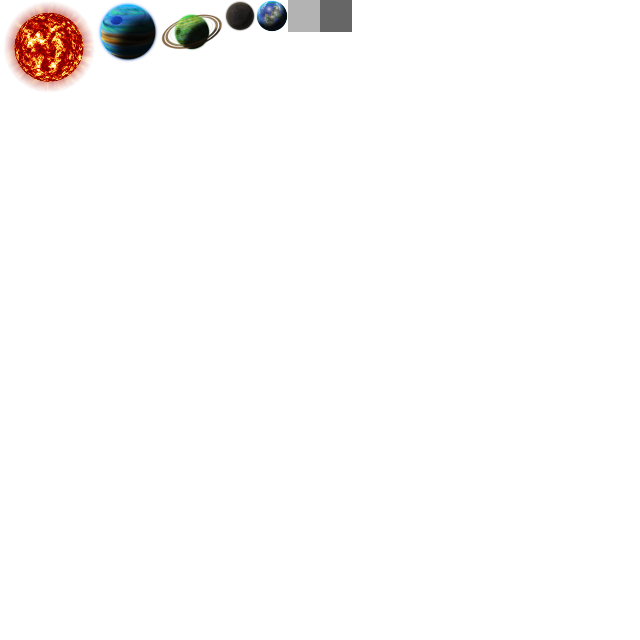
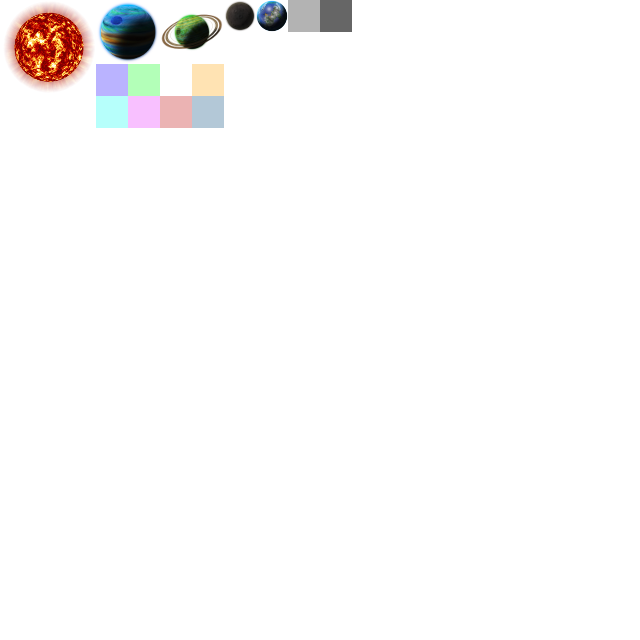
Started doing cultural effects on map.

Changed region(s): [[0.125, 0.0938, 0.375, 0.2188]]

diff --git a/src/org/openRealmOfStars/starMap/CulturePower.java b/src/org/openRealmOfStars/starMap/CulturePower.java
@@ -1,0 +1,78 @@
+package org.openRealmOfStars.starMap;
+
+import org.openRealmOfStars.player.PlayerList;
+
+/**
+ * 
+ * Open Realm of Stars game project
+ * Copyright (C) 2016  Tuomo Untinen
+ *
+ * This program is free software; you can redistribute it and/or
+ * modify it under the terms of the GNU General Public License
+ * as published by the Free Software Foundation; either version 2
+ * of the License, or (at your option) any later version.
+ * 
+ * This program is distributed in the hope that it will be useful,
+ * but WITHOUT ANY WARRANTY; without even the implied warranty of
+ * MERCHANTABILITY or FITNESS FOR A PARTICULAR PURPOSE.  See the
+ * GNU General Public License for more details.
+ * 
+ * You should have received a copy of the GNU General Public License
+ * along with this program; if not, see http://www.gnu.org/licenses/
+ * 
+ * 
+ * Culture power for single sector
+ * 
+ */
+
+public class CulturePower {
+
+  /**
+   * Culture value for each player
+   */
+  private int[] culture;
+  
+  /**
+   * Constructor for culture power
+   */
+  public CulturePower() {
+    culture = new int[PlayerList.MAX_PLAYERS];
+  }
+  
+  /**
+   * Reset culture for sector
+   */
+  public void reset() {
+    for (int i=0;i<PlayerList.MAX_PLAYERS;i++) {
+      culture[i] = 0;
+    }
+  }
+  
+  /**
+   * Add culture for certain player
+   * @param playerIndex PlayerIndex
+   * @param value Culture value
+   */
+  public void addCulture(int playerIndex, int value) {
+    if(playerIndex>0 && playerIndex < PlayerList.MAX_PLAYERS) {
+      culture[playerIndex] = culture[playerIndex]+value;
+    }
+  }
+  
+  /**
+   * Get player index for highest culture
+   * @return Player index or -1 if no culture at all
+   */
+  public int getHighestCulture() {
+    int value = -1;
+    int index = -1;
+    for (int i=0;i<PlayerList.MAX_PLAYERS;i++) {
+      if (culture[i]>value) {
+        index = i;
+        value = culture[i];
+      }
+    }
+    return index;
+  }
+  
+}

diff --git a/src/org/openRealmOfStars/starMap/StarMap.java b/src/org/openRealmOfStars/starMap/StarMap.java
@@ -61,6 +61,11 @@ public class StarMap {
   private SquareInfo tileInfo[][];
   
   /**
+   * Culture level for each sector
+   */
+  private CulturePower culture[][];
+  
+  /**
    * Solar system width
    */
   private final static int SOLARSYSTEMWIDTH = 7;
@@ -122,6 +127,7 @@ public class StarMap {
     tiles = new int[maxX][maxY];
     tileInfo = new SquareInfo[maxX][maxY];
     fleetTiles = new FleetTileInfo[maxX][maxY];
+    culture = new CulturePower[maxX][maxY];
     sunList = new ArrayList<>();
     planetList = new ArrayList<>();
     Tile empty = Tiles.getTileByName(TileNames.EMPTY);
@@ -750,7 +756,21 @@ public class StarMap {
       return null;
     }
   }
-  
+
+  /**
+   * Get culture power
+   * @param x
+   * @param y
+   * @return Culture power or null
+   */
+  public CulturePower getSectorCulture(int x, int y) {
+    if (isValidCoordinate(x, y)) {
+      return culture[x][y];
+    } else {
+      return null;
+    }
+  }
+
   /**
    * Is tile blocked or not
    * @param x X coordinate

diff --git a/src/org/openRealmOfStars/player/SpaceRace.java b/src/org/openRealmOfStars/player/SpaceRace.java
@@ -1,5 +1,6 @@
 package org.openRealmOfStars.player;
 
+import org.openRealmOfStars.mapTiles.TileNames;
 import org.openRealmOfStars.utilities.DiceGenerator;
 
 /**
@@ -262,6 +263,21 @@ public enum SpaceRace {
     case CENTAURS: return 1;
     }
     return 0;
+  }
+
+  /**
+   * Get racial culture tiel
+   * @return Tile name
+   */
+  public String getCultureTile() {
+    switch (this) {
+    case HUMAN: return TileNames.HUMANS;
+    case MECHIONS: return TileNames.MECHIONS;
+    case SPORKS: return TileNames.SPORKS;
+    case GREYANS: return TileNames.GREYANS;
+    case CENTAURS: return TileNames.CENTAURS;
+    }
+    return TileNames.HUMANS;
   }
 
 }

diff --git a/src/org/openRealmOfStars/starMap/planet/Planet.java b/src/org/openRealmOfStars/starMap/planet/Planet.java
@@ -972,6 +972,9 @@ public class Planet {
             ShipStat stat = planetOwnerInfo.getShipStatByName(ship.getName());
             stat.setNumberOfBuilt(stat.getNumberOfBuilt()+1);
             stat.setNumberOfInUse(stat.getNumberOfInUse()+1);
+            if (stat.getDesign().getTotalMilitaryPower()>0) {
+              culture=culture+stat.getDesign().getTotalMilitaryPower()/4;
+            }
             Fleet fleet = new Fleet(ship, getX(), getY());
             planetOwnerInfo.Fleets().add(fleet);
             msg = new Message(MessageType.CONSTRUCTION, getName()+" built "+underConstruction.getName(), 

diff --git a/src/org/openRealmOfStars/mapTiles/Tiles.java b/src/org/openRealmOfStars/mapTiles/Tiles.java
@@ -148,6 +148,17 @@ public class Tiles {
     // Reading the uncharted 
     tile = new Tile(tilesImage, 10, 0,TileNames.UNCHARTED);
     addTile(tile);
+    // Reading the culture tiles
+    tile = new Tile(tilesImage, 3, 2,TileNames.MECHIONS);
+    addTile(tile);
+    tile = new Tile(tilesImage, 4, 2,TileNames.SPORKS);
+    addTile(tile);
+    tile = new Tile(tilesImage, 5, 2,TileNames.HUMANS);
+    addTile(tile);
+    tile = new Tile(tilesImage, 6, 2,TileNames.CENTAURS);
+    addTile(tile);
+    tile = new Tile(tilesImage, 6, 3,TileNames.GREYANS);
+    addTile(tile);
   }
   
 

diff --git a/src/org/openRealmOfStars/mapTiles/TileNames.java b/src/org/openRealmOfStars/mapTiles/TileNames.java
@@ -61,4 +61,11 @@ public class TileNames {
   public final static String FOG_OF_WAR = "FOG_OF_WAR";
   public final static String UNCHARTED = "UNCHARTED";
 
+  // Culture tiles
+  public final static String MECHIONS = "MechionCulture";
+  public final static String SPORKS = "SporkCulture";
+  public final static String HUMANS = "HumanCulture";
+  public final static String CENTAURS = "CentaurCulture";
+  public final static String GREYANS = "GreyanCulture";
+
 }
